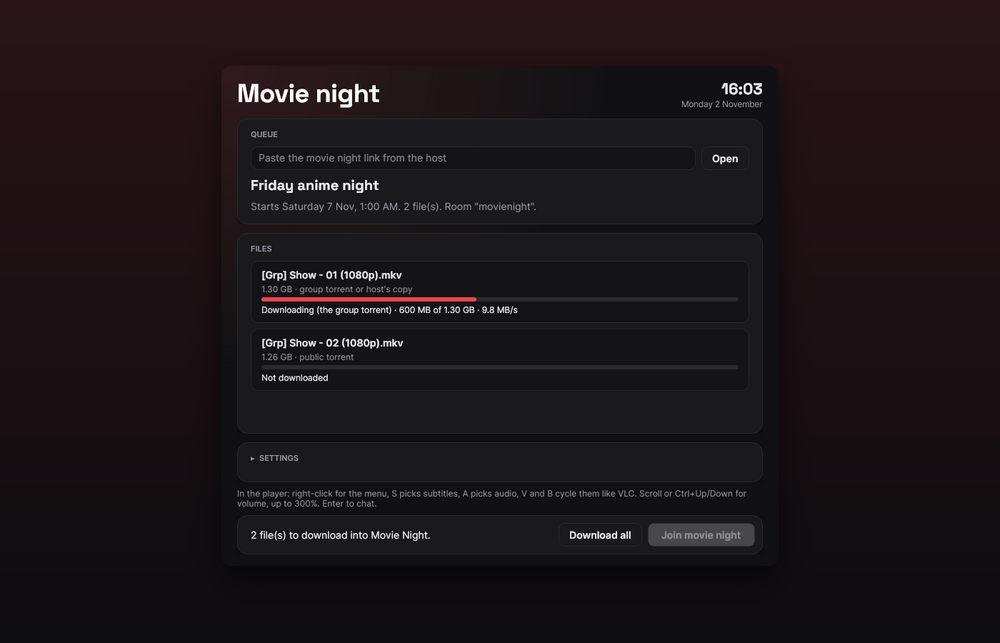
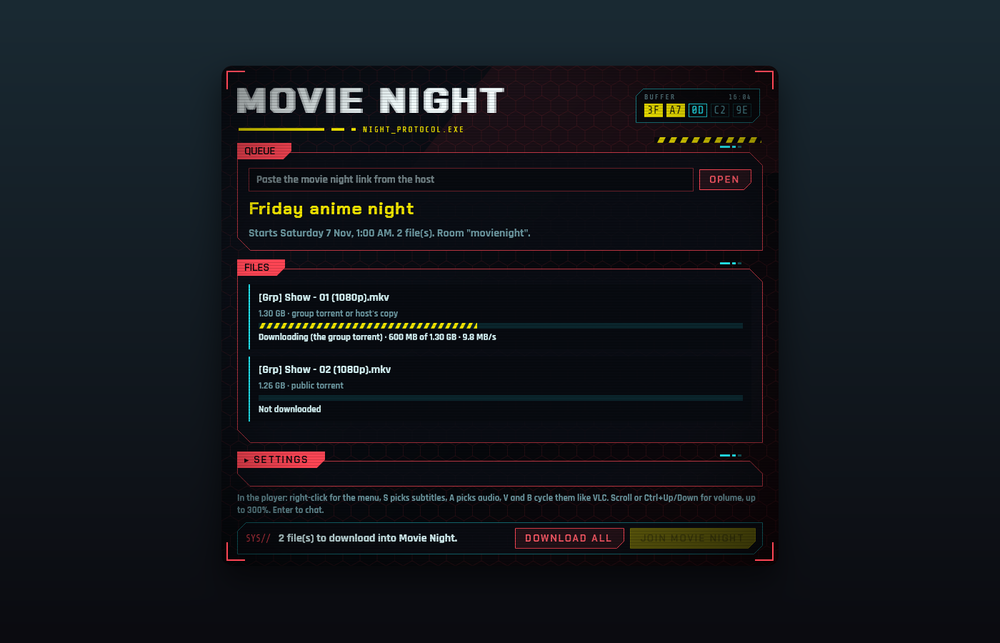
README hero picture in the Breach (cyberpunk) look

diff --git a/README.md b/README.md
@@ -26,7 +26,7 @@
 </p>
 
 <p align="center">
-  <img src="docs/readme/hero.png" width="820" alt="The Last Piece viewer window in the Warm look, dark mode, with the queued episodes downloading">
+  <img src="docs/readme/hero.png" width="820" alt="The Last Piece viewer window in the Breach (cyberpunk) look, with the queued episodes downloading">
 </p>
 
 <p align="center">
